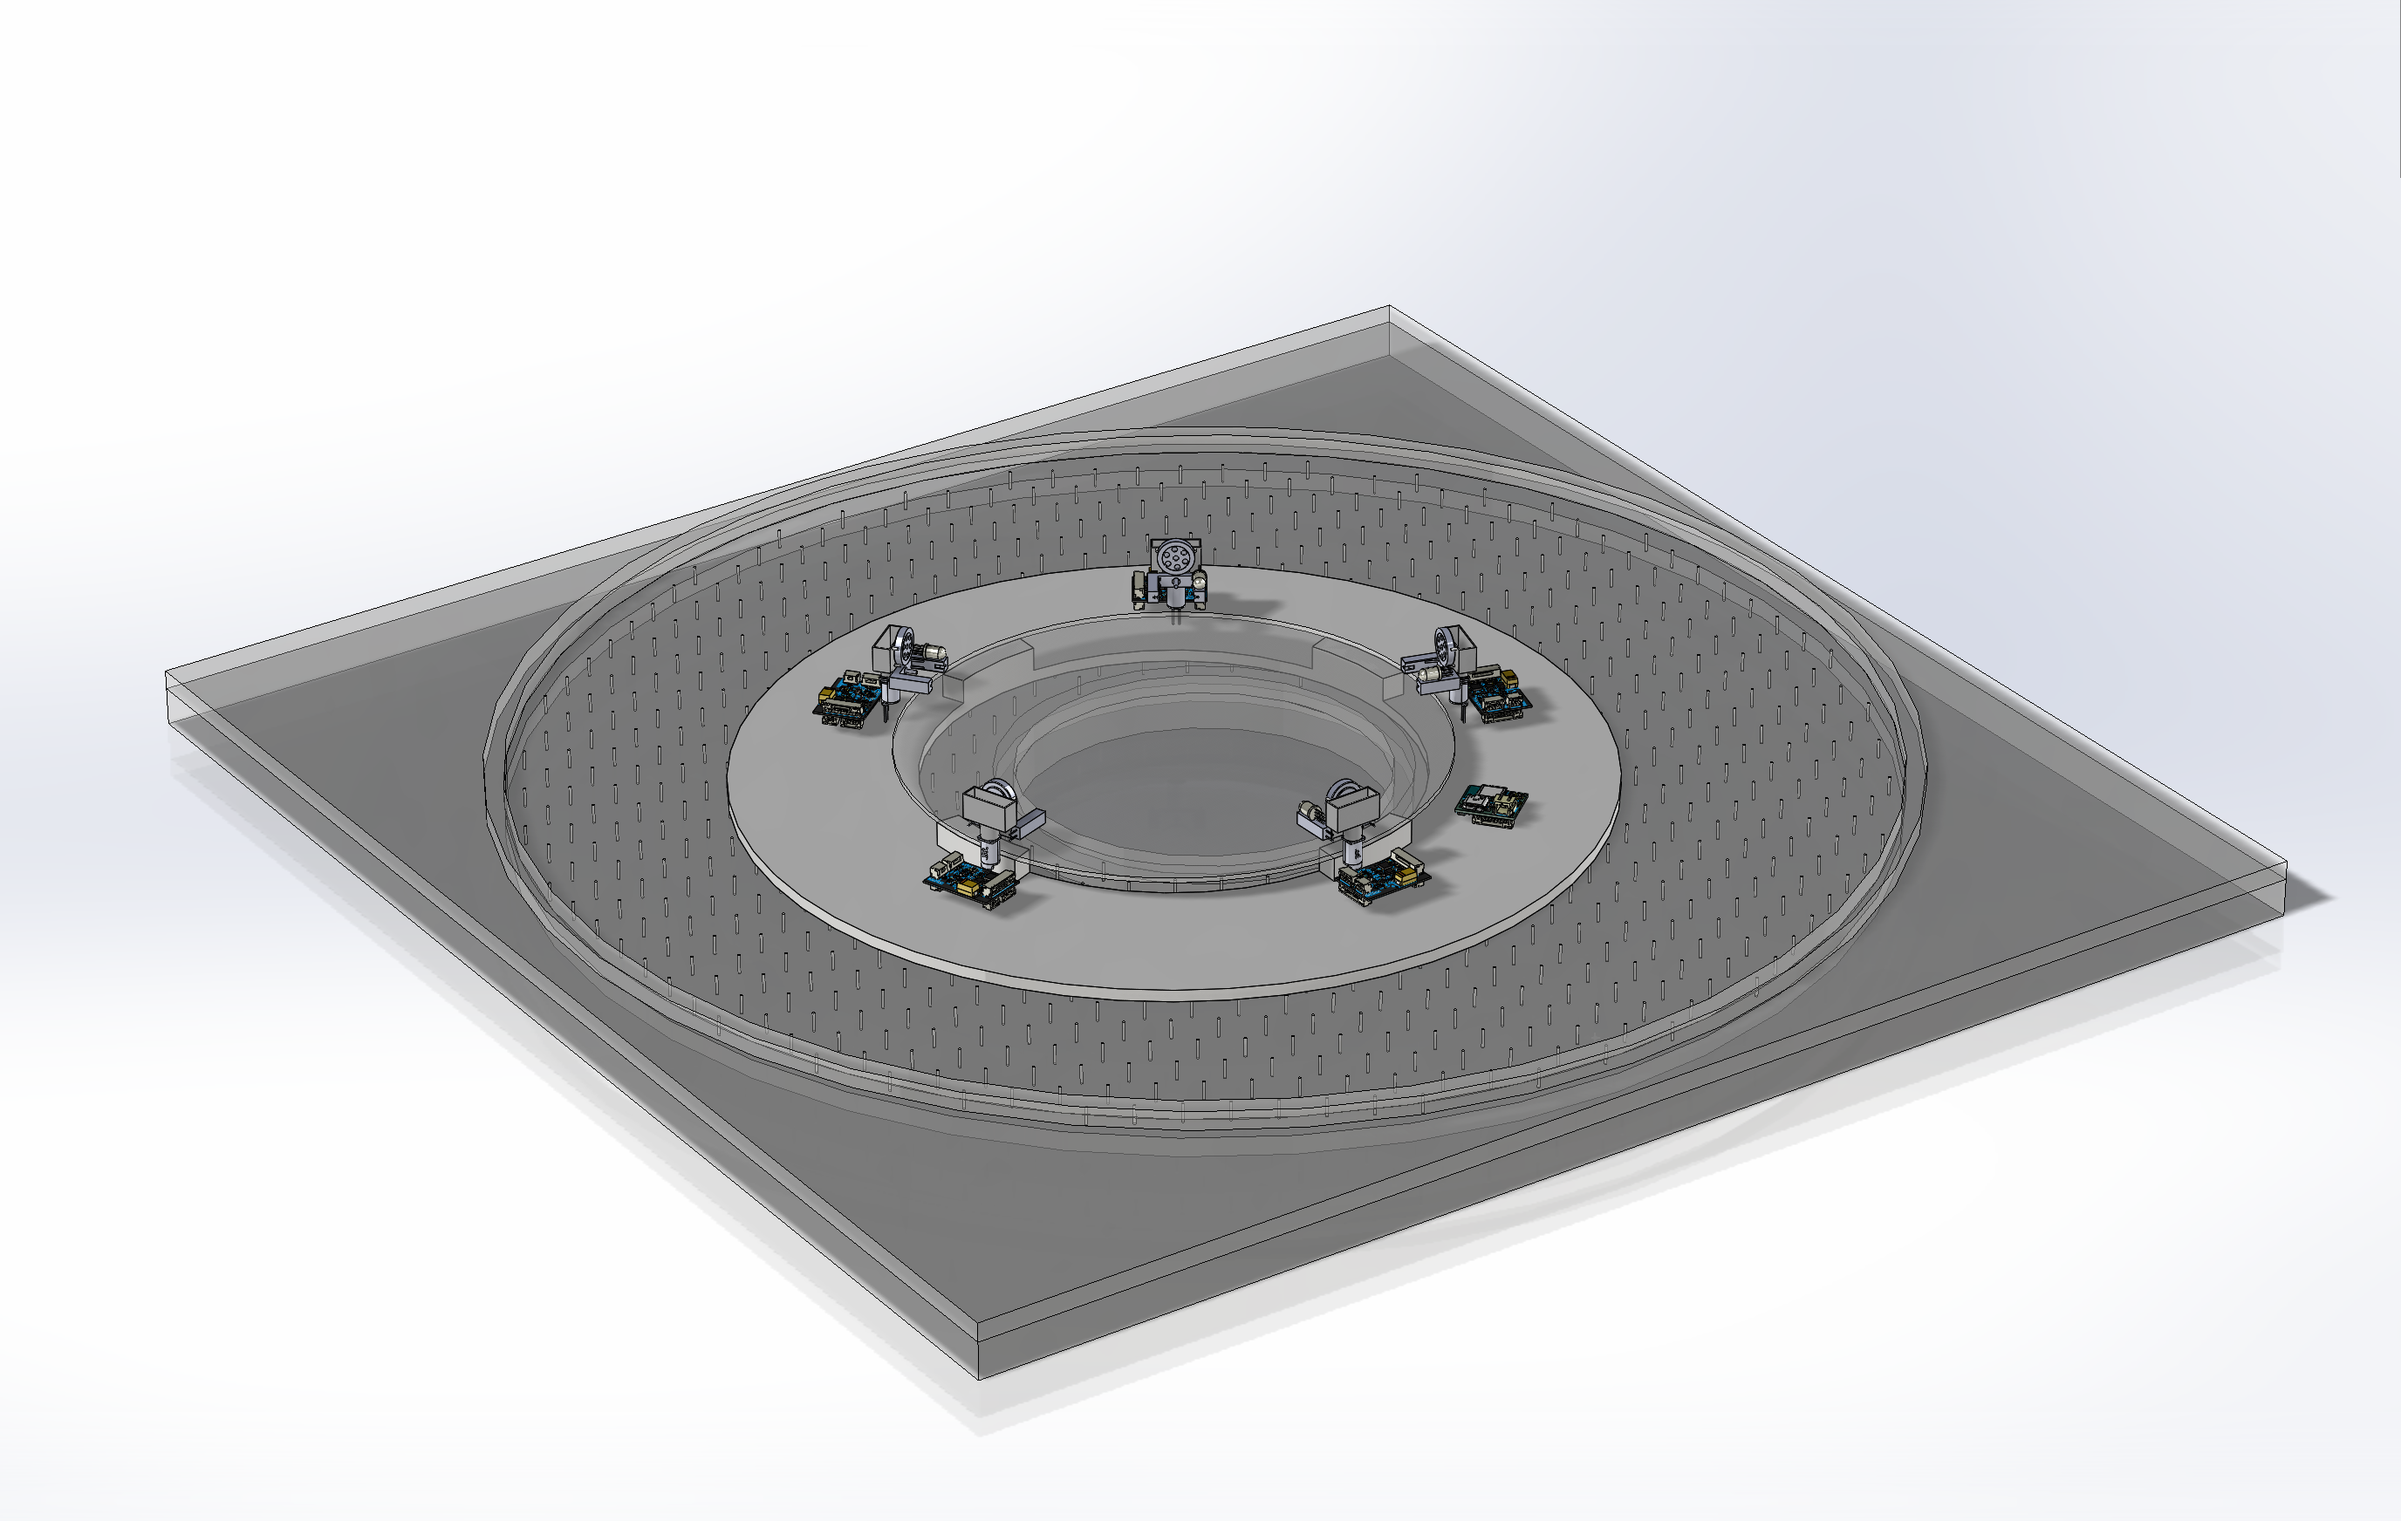
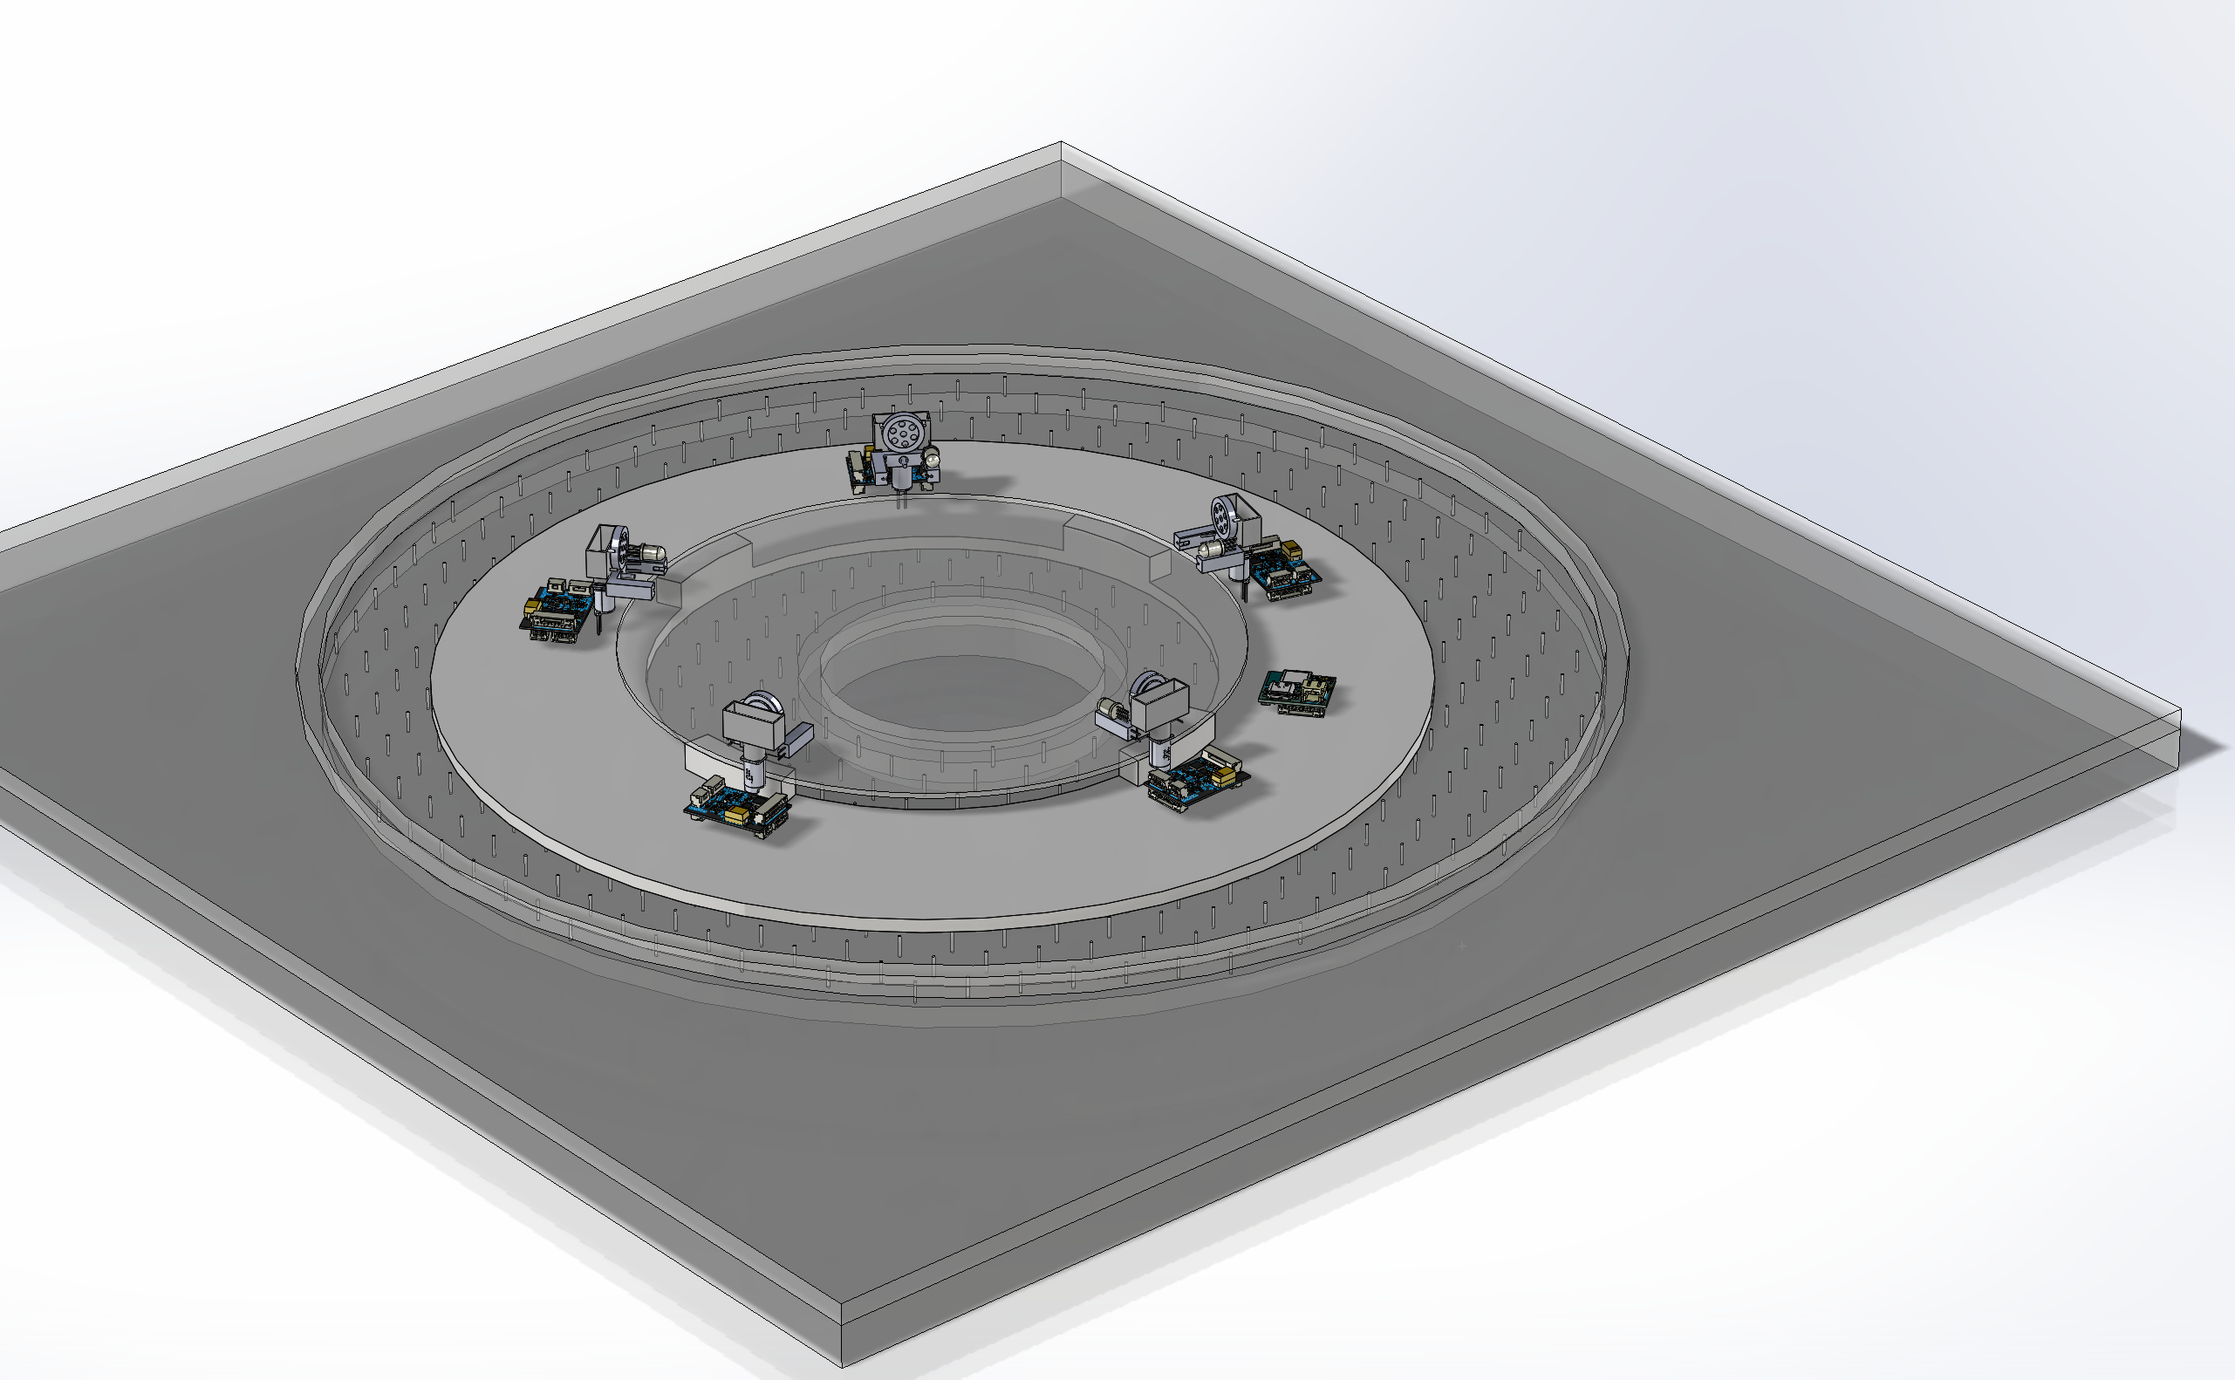
Remove all development notes ahead of publishing

diff --git a/_pages/about.md b/_pages/about.md
@@ -38,9 +38,9 @@ latest_posts:
   step here, so those classes produce no CSS and silently do nothing.
 -->
 
-<!-- {% include todo.liquid label="check" text="<strong>These coloured boxes are notes to you and are invisible on the live site</strong> — they only render in local preview. <span style='color:#f59e0b'><strong>Amber = write something</strong></span>. <span style='color:#0ea5e9'><strong>Blue = add an image</strong></span>. <span style='color:#a855f7'><strong>Purple = confirm/decide something</strong></span>. <span style='color:#ec4899'><strong>Pink = I wrote this, make it yours</strong></span>. If a page has no boxes, nothing on it needs your attention." %} -->
+<!-- -->
 
-<!-- {% include todo.liquid label="check" text="<strong>Status of this page:</strong> everything below the intro — Experience, Education, Skills, Additional experience, Awards — is <strong>real, taken verbatim from your 13 Aug 2026 CV</strong>. No filler. Only the two boxes below need you." %} -->
+<!-- -->
 
 I'm a neuroscientist and engineer at the MRC Laboratory of Molecular Biology in
 Cambridge, working in [Marco Tripodi's group](https://www.tripodilab.org/)
@@ -57,7 +57,7 @@ between a soldering iron, a CAD window and a data pipeline in the same afternoon
 The [projects]({{ '/projects/' | relative_url }}) page has writeups of the main
 systems I've built.
 
-<!-- {% include todo.liquid label="review" text="<strong>I wrote those three paragraphs</strong>, loosely from your CV summary — they are the only invented prose on this page. It's your voice on your front page, so rewrite them. The last sentence in particular is my guess at how you'd describe yourself." %} -->
+<!-- -->
 
 <p>
   <a class="btn btn-sm z-depth-0" role="button" href="{{ site.data.socials.cv_pdf | relative_url }}">
@@ -65,7 +65,7 @@ systems I've built.
   </a>
 </p>
 
-<!-- {% include todo.liquid label="check" text="<strong>Your LaTeX CV has no LinkedIn on it</strong>, but the site now does. Worth adding the URL to <code>cv_writing/cv_13aug26/sections/header.tex</code> so the two agree — and while you're in there, fix the mailto/display email mismatch on line 8." %} -->
+<!-- -->
 
 <!-- Hard break: ends the floated profile block (photo AND address) so the CV
      below always starts on a clean line. The inline style is deliberate —

diff --git a/_pages/projects.md b/_pages/projects.md
@@ -206,8 +206,6 @@ it replaces: its
 [sensor firmware](https://github.com/stef1029/Head-sensor-internal-code) and the
 [host-side acquisition and experiment control](https://github.com/stef1029/Head-sensor-experiment-control).
 
-{% include todo.liquid label="check" text="<strong>Confirm the second repo.</strong> You told me <code>Head-sensor-internal-code</code> is the old system’s firmware, so I have labelled both public repos as the previous generation. If <code>Head-sensor-experiment-control</code> is actually shared with the new board, say so and I’ll split the sentence." %}
-
 | Part | Role |
 | --- | --- |
 | **LSM6DSV32X** | Six-axis IMU — accelerometer and gyroscope |
@@ -232,8 +230,6 @@ transparent enough for the next person to read and adjust is worth more than
 something marginally more accurate that nobody can maintain. The code is on
 [GitHub](https://github.com/stef1029/WormTrackatron7000).
 
-{% include todo.liquid label="image" text="A <strong>trace map</strong> output would suit this section if you have one — it shows the method working at a glance, and this is currently the only project here without a picture. Drop it in and reference it; anything in <code>assets/img/</code> works." %}
-
 ## FPV drone builds
 
 Before the research work I founded **UK Drone Builds**, a small venture building
@@ -255,5 +251,4 @@ deadline that later let me take on my PhD work.
    note="Site screenshot." %}
 
 ---
-
 

diff --git a/_pages/blog.md b/_pages/blog.md
@@ -16,10 +16,6 @@ pagination:
     after: 3 # The number of links after the current page
 ---
 
-{% include todo.liquid label="check" text="<strong>This blog is empty and is in your nav.</strong> Either write a first post, or tell me to delete the page and renumber the nav. An empty blog link on a portfolio reads as abandoned, so it's worth deciding either way." %}
-
-{% include todo.liquid text="If you keep it: the natural first posts are the things you already know cold — 'how we built a wireless behavioural rig in three weeks', or 'synchronising cameras, DAQ and Neuropixels without losing your mind'. Posts live in <code>_posts/</code> as <code>YYYY-MM-DD-title.md</code>. Note <code>_posts/</code> is currently excluded in <code>_config.yml</code> — remove that line before writing." %}
-
 <div class="post">
 
 {% assign blog_name_size = site.blog_name | size %}

diff --git a/_pages/repositories.md b/_pages/repositories.md
@@ -7,10 +7,6 @@ nav: true
 nav_order: 5
 ---
 
-{% include todo.liquid label="check" text="<strong>7 of your ~40 repos are public</strong> and listed below, newest first. Still private: <code>hex_behav</code>, <code>Laser-stim-control-board</code>, <code>Camera</code>, <code>ArduinoDAQ2-Due</code>, <code>cohort_visualizer</code> and the analysis notebooks — making the good ones public remains the highest-value thing you can do for this site." %}
-
-{% include todo.liquid text="<strong>All 7 still have a blank description on GitHub.</strong> The cards below display that description, so they render empty no matter what I do here. Add a one-liner to each repo on GitHub — a minute per repo, and it fixes this page entirely." %}
-
 {% if site.data.repositories.github_users %}
 
 ## GitHub users

diff --git a/_pages/teaching.md b/_pages/teaching.md
@@ -43,8 +43,6 @@ part I found hardest is a good use of a week.
 
 <div style="clear: both"></div>
 
-{% include todo.liquid label="review" text="<strong>Some of this is my phrasing rather than your words</strong> — the instrumentation-bottleneck framing came from the poster and your projects, and the closing two paragraphs are your own account of arriving from biology and wanting to give something back, written up. Reword freely, and correct me if the school's emphasis was different. Anything the students actually built during the week would be worth a sentence." %}
-
 <!--
   Removed from this page: a demo Google Calendar embed pointing at
   test@gmail.com / Asia/Shanghai, and the theme's `courses.liquid` include

diff --git a/_pages/cv.md b/_pages/cv.md
@@ -13,4 +13,3 @@ toc:
   sidebar: left
 ---
 
-{% include todo.liquid label="check" text="<strong>This page is real — generated from <code>assets/json/resume.json</code>, which mirrors your Aug 2026 CV.</strong> Nothing to write here. But it duplicates the homepage, so keep the two in sync: edit <code>resume.json</code> and <code>_pages/about.md</code> together, and re-copy <code>main.pdf</code> over <code>assets/pdf/cv.pdf</code> when you rebuild the LaTeX." %}
